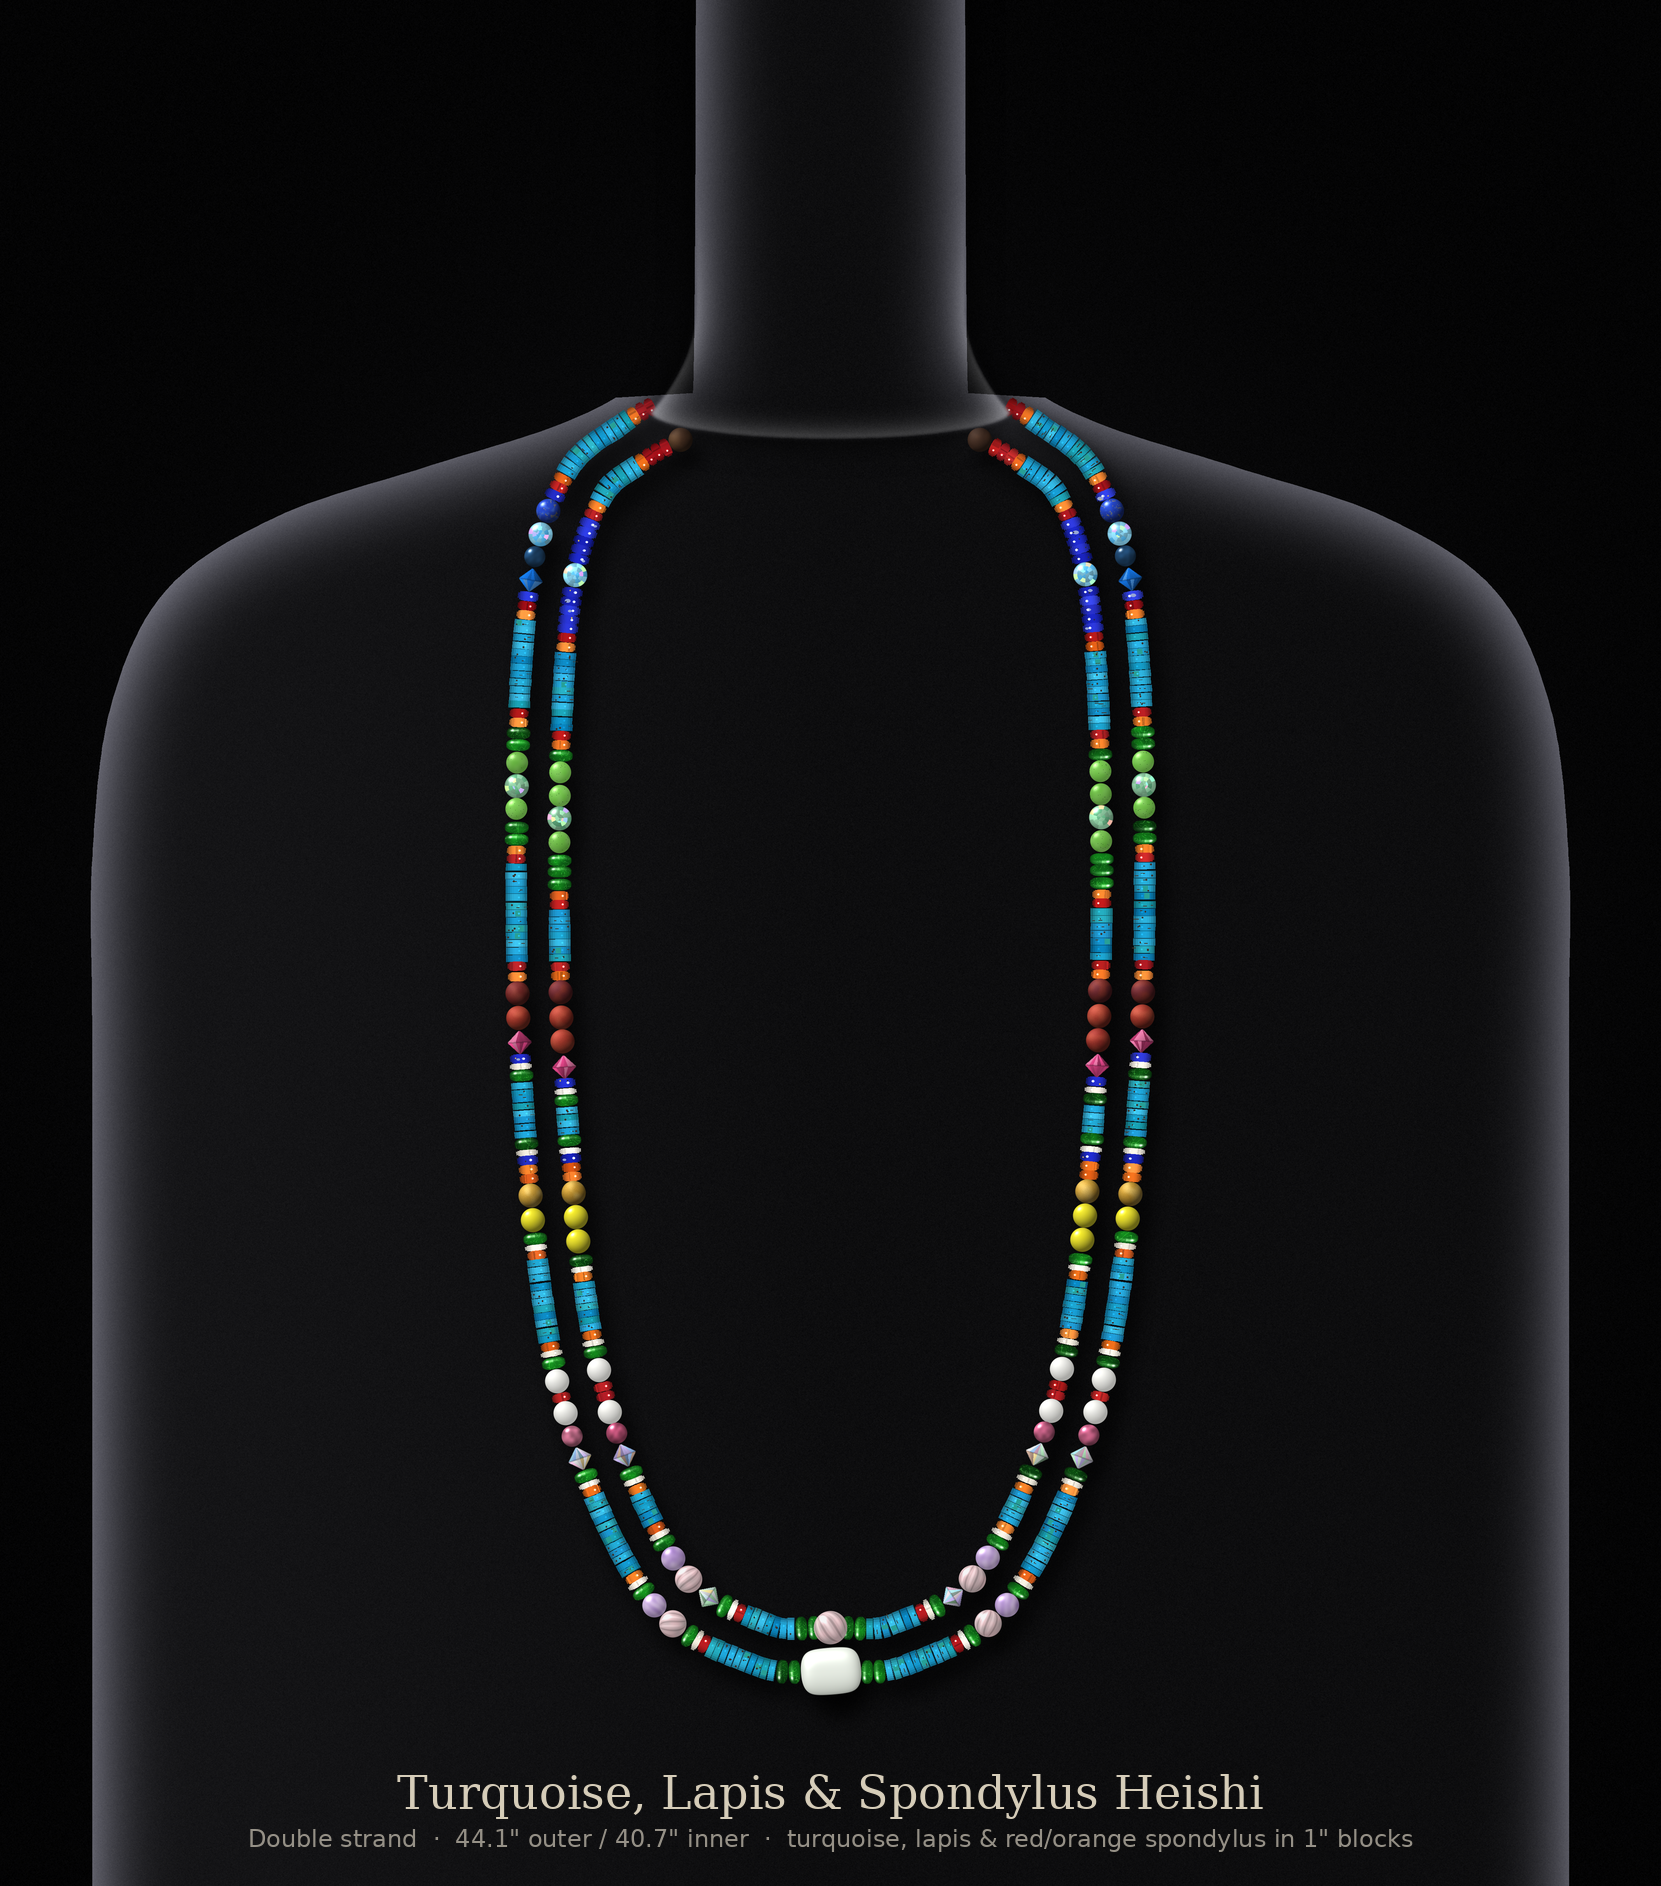
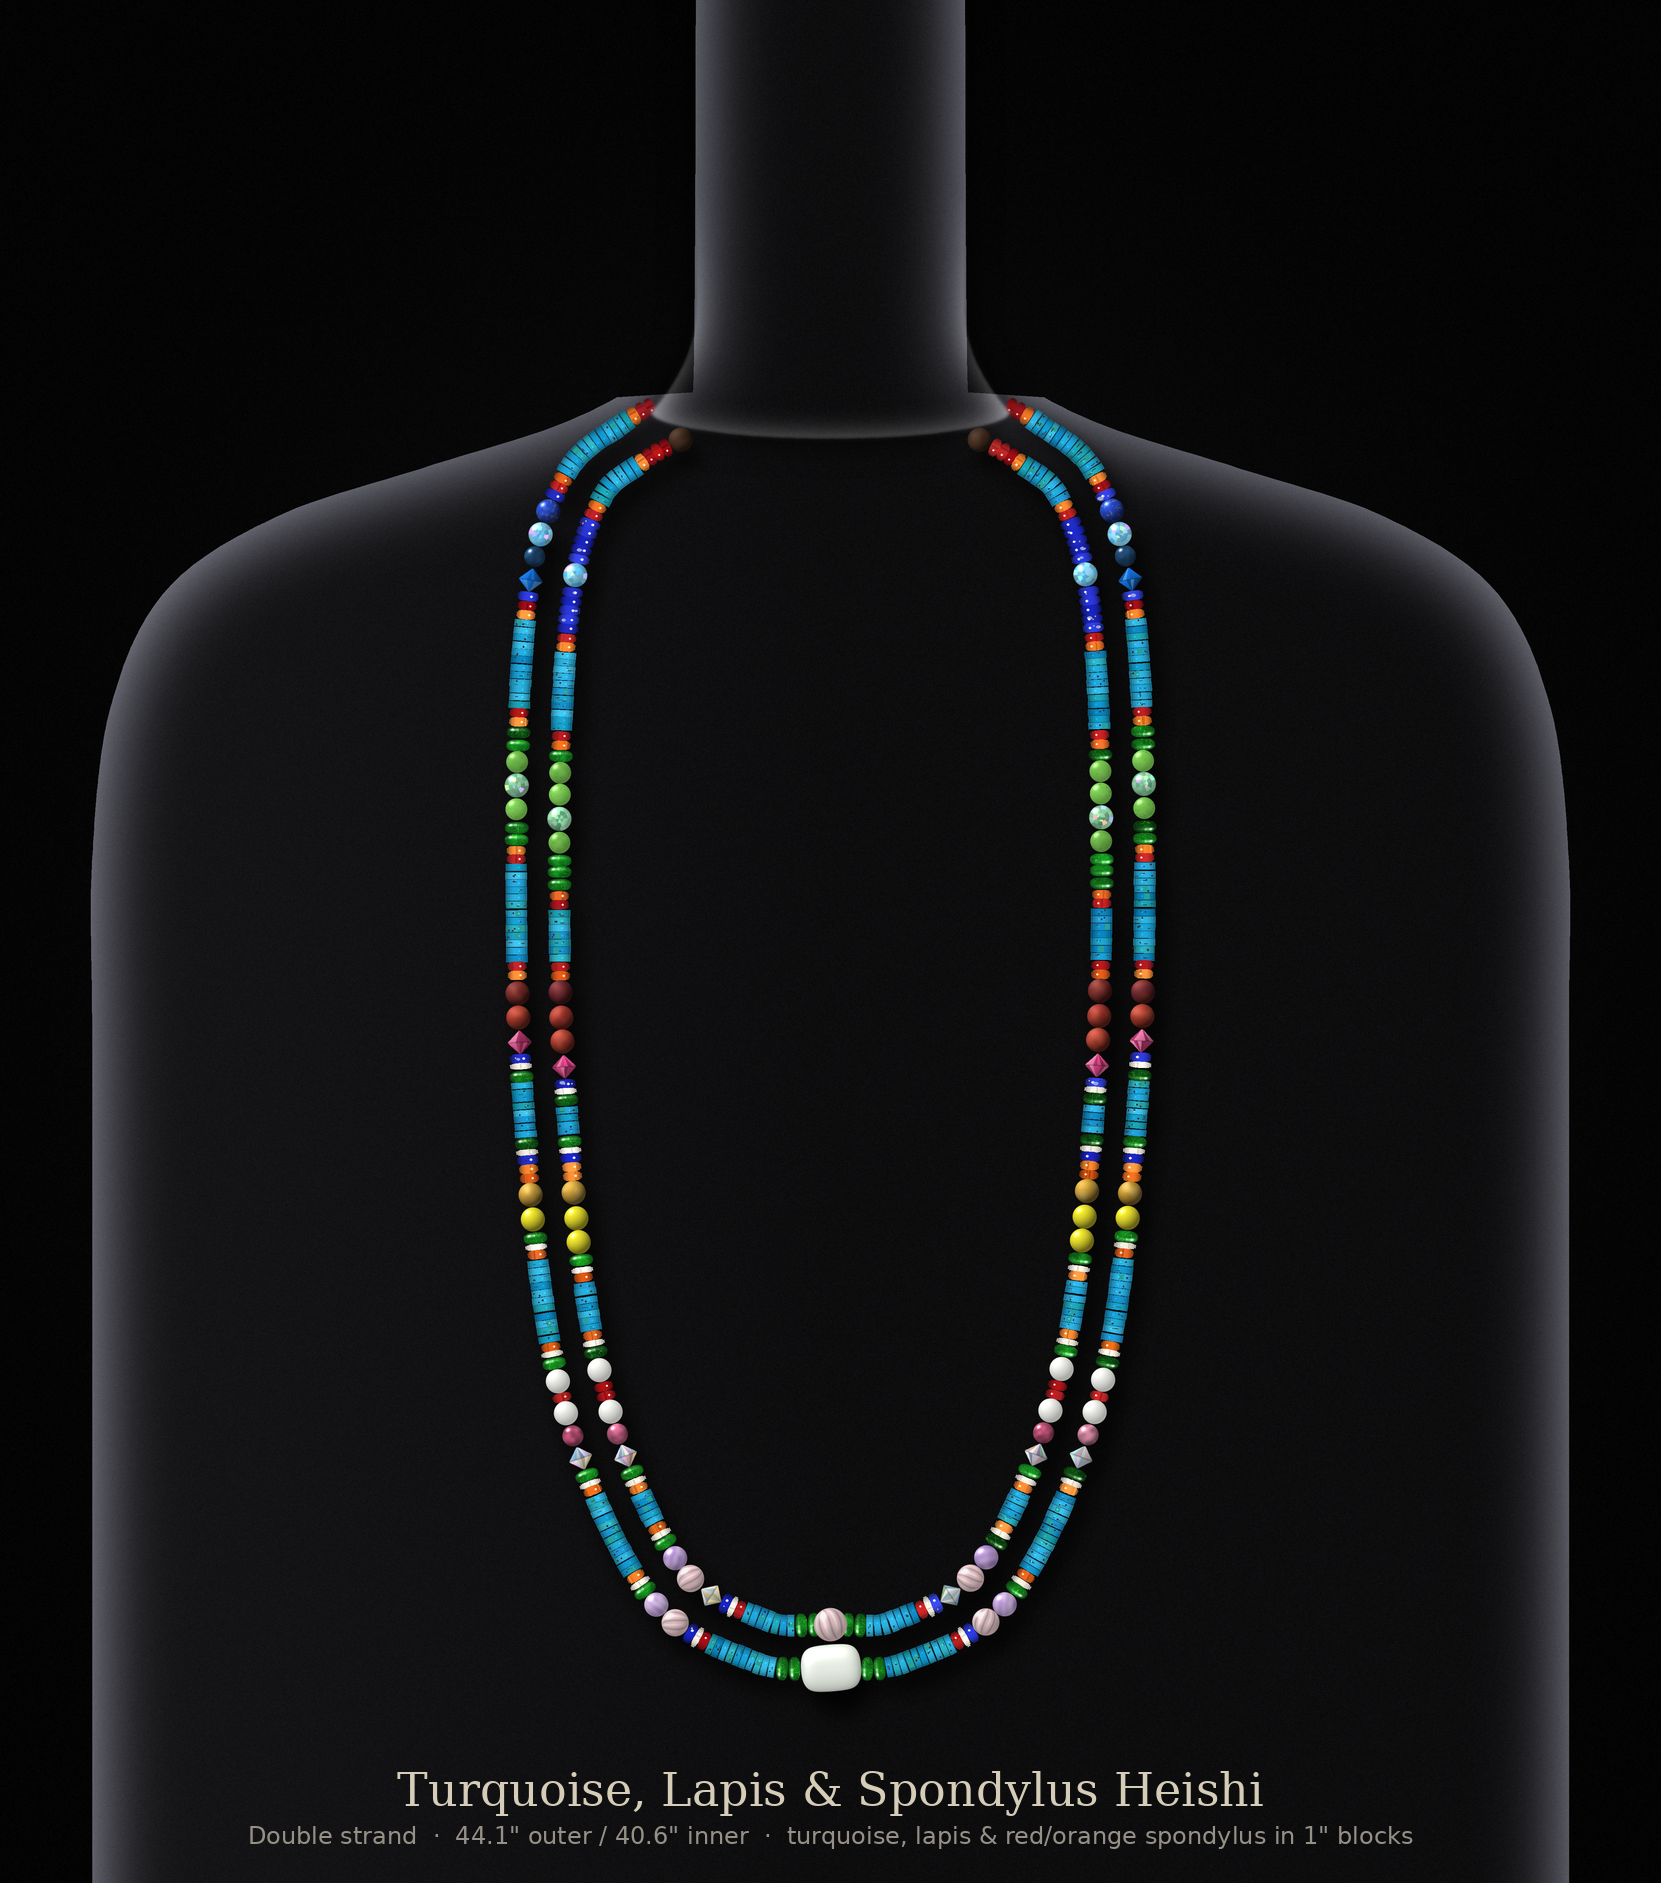
Version 5: blue lapis instead of green next to the centre-side white conch
Claude-Session: https://claude.ai/code/session_014be1vF4Rdf8sv9Si75Gudv

Changed region(s): [[0.307, 0.2156, 0.7062, 0.8933]]

diff --git a/necklace/render_necklace.py b/necklace/render_necklace.py
@@ -19,7 +19,7 @@ V5_EXT2 = 3.0 if V5 else 0.0             # v5: bottom band's lowest red glass be
 V5_EXT3 = 0.0                            # (red above the bicone removed again)             # v5: red spiny oyster above each mookaite-band rose bicone (+3 mm per side)
 V5_EXT4 = 7.0 if V5 else 0.0             # v5: a pink tourmaline moves from the outer to the inner bottom band (+7 mm per side)
 V5_EXT5 = 5 * 2.0 if V5 else 0.0         # v5: white conch at the 5 lower orange/green borders per strand side (+10 mm per side)
-V5_EXT6 = -3.0 if V5 else 0.0            # v5: red above the white-section AB bicones removed (-3 mm per side)
+V5_EXT6 = -3.0 - 1.0 if V5 else 0.0      # (and -1 mm: lapis replaces the 4 mm diopside by the centre-side conch)            # v5: red above the white-section AB bicones removed (-3 mm per side)
 C_OUT, GAP, BEAD_D = 42 * INCH + 2 * (V5_EXT + V5_EXT2 + V5_EXT3 + V5_EXT4 + V5_EXT5 + V5_EXT6), (11.2 if EXTRAS else (14.0 if V2 else 10.0)), 7.0   # v2: room for 18 mm naga conch
 C_IN = C_OUT - 2 * math.pi * GAP    # inner strand: 8 mm smaller radius -> ~38"
 NSEG, BPS = 42, 16                  # 1 inch blocks, ~16 heishi (1.6 mm) per block
@@ -1448,6 +1448,7 @@ if V4:
                 _k = STN[7].index("abbic"); assert STN[7][_k - 1] == "red"
                 del STN[7][_k - 1]                          # red above the AB bicone removed: necklace shorter, turquoise unchanged
                 assert STN[8][-1] == "orange"; STN[8][-1] = "red"   # orange nearest the centre bead -> red spiny oyster
+                assert STN[8][-3:-1] == ["diop", "conch"]; STN[8][-3] = "lapisH"   # green next to that white -> blue lapis
                 print(f"v5 strand {st} swapped 7/8 gaps", [round(float(x), 1) for x in gaps])
             g = 0.0
             lap = LAP_BUDGET[st]
